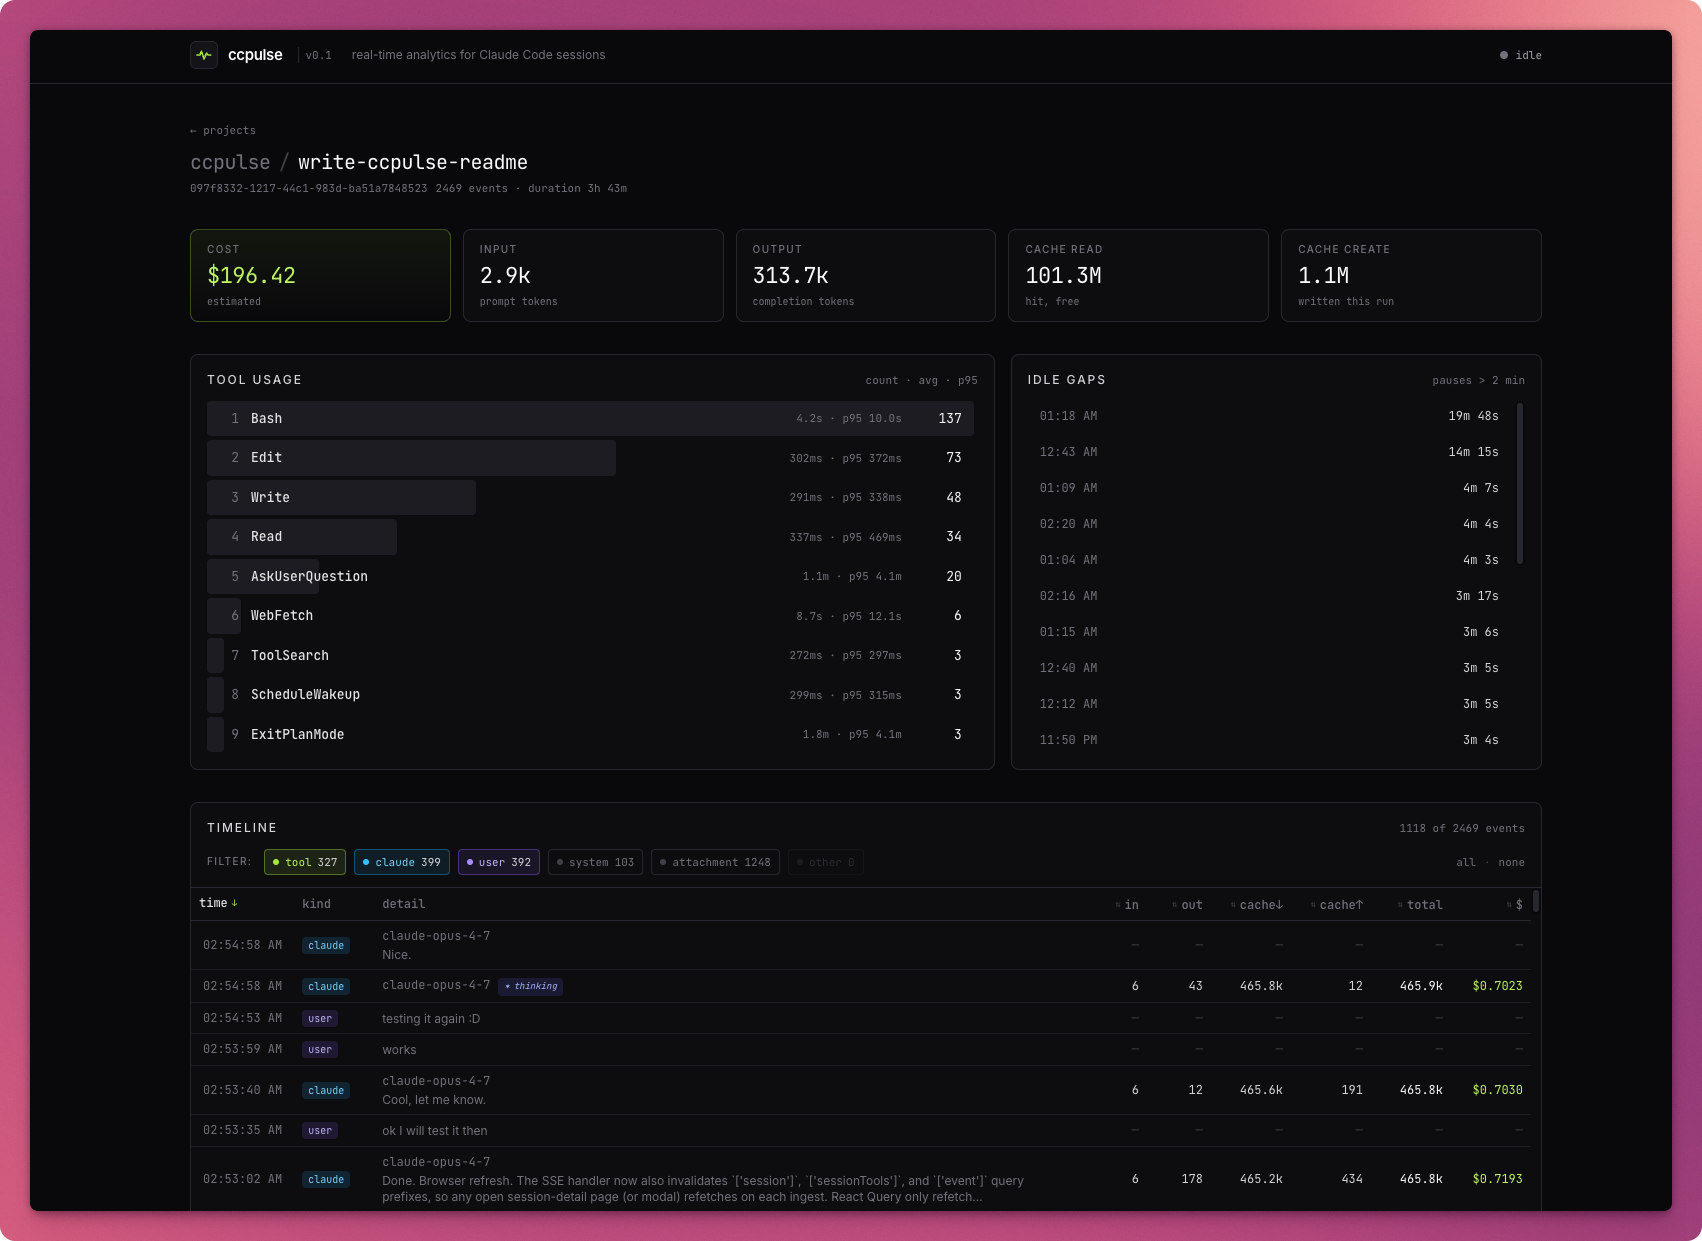
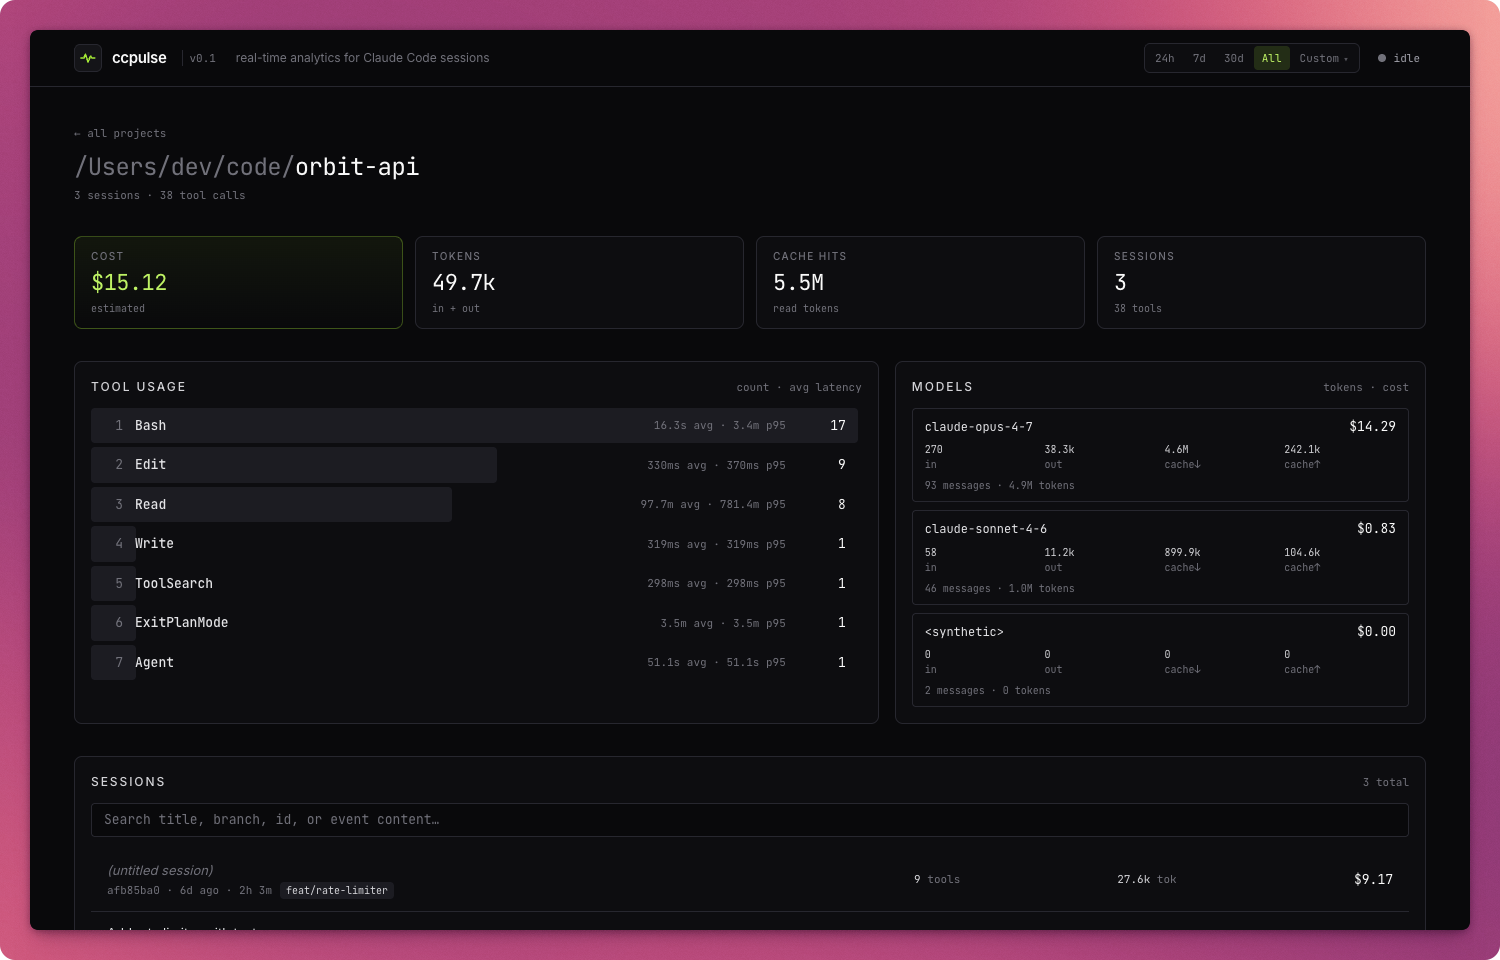
update readme and add support for demo data

diff --git a/packages/cli/src/bin.ts b/packages/cli/src/bin.ts
@@ -29,6 +29,8 @@ function readPackageVersion(): string {
 
 const DEFAULT_PORT = Number(process.env.CCPULSE_PORT) || 7878;
 const DB_PATH = process.env.CCPULSE_DB || join(homedir(), '.ccpulse', 'ccpulse.db');
+// Override the JSONL root (default ~/.claude/projects). Used for tests and demo data.
+const CLAUDE_DIR = process.env.CCPULSE_CLAUDE_DIR || undefined;
 
 const args = process.argv.slice(2);
 // Treat a leading flag (`--port`, `--no-open`, etc.) as "no subcommand" so that
@@ -46,7 +48,7 @@ function parseFlag(name: string): string | undefined {
 async function runDaemon() {
   const port = Number(parseFlag('port')) || DEFAULT_PORT;
   const noOpen = args.includes('--no-open');
-  const server = createServer({ port, dbPath: DB_PATH });
+  const server = createServer({ port, dbPath: DB_PATH, claudeDir: CLAUDE_DIR });
   const { port: actualPort } = await server.start();
   const baseUrl = `http://localhost:${actualPort}`;
   console.log(`ccpulse daemon listening on ${baseUrl}`);
@@ -164,8 +166,9 @@ usage:
   ccpulse --help                            this message
 
 env:
-  CCPULSE_PORT (default 7878)
-  CCPULSE_DB   (default ~/.ccpulse/ccpulse.db)
+  CCPULSE_PORT        (default 7878)
+  CCPULSE_DB          (default ~/.ccpulse/ccpulse.db)
+  CCPULSE_CLAUDE_DIR  (default ~/.claude/projects)
 `);
 }
 

diff --git a/packages/daemon/src/dev.ts b/packages/daemon/src/dev.ts
@@ -1,6 +1,10 @@
 import { createServer } from './server.js';
 
-const server = createServer({ port: Number(process.env.CCPULSE_PORT) || 7878 });
+const server = createServer({
+  port: Number(process.env.CCPULSE_PORT) || 7878,
+  dbPath: process.env.CCPULSE_DB,
+  claudeDir: process.env.CCPULSE_CLAUDE_DIR || undefined,
+});
 server.start().then(({ port }) => {
   // eslint-disable-next-line no-console
   console.log(`[ccpulse] daemon dev on http://localhost:${port}`);

diff --git a/README.md b/README.md
@@ -1,48 +1,81 @@
 # ccpulse
 
-> A small dashboard for a small problem. One hour. Some snacks. That's it.
+> See where your Claude Code tokens, time, and money actually go.
 
-![ccpulse](https://raw.githubusercontent.com/omar-toma/ccpulse/main/docs/screenshot.png)
+![ccpulse dashboard](https://raw.githubusercontent.com/omar-toma/ccpulse/main/docs/screenshot.png)
 
-Live, local-first analytics for [Claude Code](https://claude.com/claude-code) sessions — tokens, cost, tools, latency, timelines — sliced by project and session.
+<!-- After uploading the demo clip, drag ccpulse-demo.mp4 into the GitHub README
+     editor on this line so it renders as an inline player. -->
+
+Live, local-first analytics for [Claude Code](https://claude.com/claude-code) —
+tokens, cost, tool latency, and session timelines, sliced by project and session.
+A daemon watches your local session logs, indexes them into SQLite, and serves a
+dashboard. Nothing leaves your machine.
 
 ## Quickstart
 
 ```bash
-npx @omartoma/ccpulse@latest                    # starts daemon + opens dashboard
+npx @omartoma/ccpulse@latest          # starts the daemon and opens the dashboard
 ```
 
 Or install globally:
 
 ```bash
 npm i -g @omartoma/ccpulse
-ccpulse                                  # same thing
+ccpulse                               # same thing
 ```
 
-The daemon watches `~/.claude/projects/`, indexes events into SQLite, and serves a dashboard at `http://localhost:7878`. To scope the dashboard to a specific project's cwd, run `npx @omartoma/ccpulse@latest open` from that directory while the daemon is running.
-
-Other commands:
+The daemon watches `~/.claude/projects/`, indexes events into SQLite, and serves
+the dashboard at `http://localhost:7878`. To scope the dashboard to one project,
+run `npx @omartoma/ccpulse@latest open` from that project's directory while the
+daemon is running.
 
 ```bash
-npx @omartoma/ccpulse@latest daemon --no-open   # daemon without auto-opening browser
+npx @omartoma/ccpulse@latest daemon --no-open   # daemon without auto-opening the browser
 npx @omartoma/ccpulse@latest status             # check daemon health
-npx @omartoma/ccpulse@latest reindex            # drop SQLite index, rebuild on next start
+npx @omartoma/ccpulse@latest reindex            # drop the SQLite index, rebuild on next start
 ```
 
 ## What it shows
 
-- **Per-project rollups** — cost, tokens, sessions, tool calls, with a project list sorted by recency.
-- **Per-session timeline** — sortable by time, in / out / cache↓ / cache↑, total tokens, or cost. Filterable by kind (`tool` / `claude` / `user` / `system` / `attachment`). Click any row for a full event modal — message text, tool input JSON, hook payloads, raw JSONL line.
-- **Tool latency** — count, avg, p95, per project and per session.
-- **Global time range** — scope every view to the last 24h / 7d / 30d, a custom window, or all time; the range is kept in the URL so it survives reloads and shareable links.
+- **Per-project rollups** — cost, tokens, sessions, and tool calls, with projects
+  sorted by recency.
+- **Per-session timeline** — sortable by time, in / out / cache↓ / cache↑, total
+  tokens, or cost. Filter by kind (`tool` / `claude` / `user` / `system` /
+  `attachment`). Click any row for the full event — message text, tool input JSON,
+  hook payloads, the raw JSONL line.
+- **Tool latency** — count, average, and p95, per project and per session.
+- **Global time range** — scope every view to the last 24h / 7d / 30d, a custom
+  window, or all time. The range lives in the URL, so it survives reloads and
+  makes views shareable.
 
-Live updates stream over SSE — click the status pill in the header to pause or resume the subscription; resuming refreshes everything that changed while paused.
+Live updates stream over SSE — click the status pill in the header to pause or
+resume the subscription; resuming refreshes everything that changed while paused.
 
-## Caveats
+## Configuration
 
-Built in about an hour, between snack runs, to scratch a personal itch. Tests cover the parser and not much else. No roadmap. It reads `~/.claude/projects/*.jsonl` directly, so it breaks if Anthropic changes that format. Cost numbers use bundled rates that may go stale — drop overrides at `~/.ccpulse/models.json`. Requires Node ≥ 22 (uses the built-in `node:sqlite`).
+Environment variables:
 
-If it works for you, great. If not, the daemon is local and the data stays on your disk either way.
+| Variable             | Default                   | Purpose                          |
+| -------------------- | ------------------------- | -------------------------------- |
+| `CCPULSE_PORT`       | `7878`                    | Dashboard / API port             |
+| `CCPULSE_DB`         | `~/.ccpulse/ccpulse.db`   | SQLite index location            |
+| `CCPULSE_CLAUDE_DIR` | `~/.claude/projects`      | JSONL session-log root           |
+
+Cost is estimated from a bundled per-model rate table. Override or extend it by
+dropping a `~/.ccpulse/models.json` file.
+
+## Limitations
+
+- Reads `~/.claude/projects/*.jsonl` directly — if Anthropic changes that log
+  format, parsing may need an update.
+- Cost is an estimate from bundled rates; correct it via `~/.ccpulse/models.json`
+  if the published rates drift.
+- Built in an hour to scratch a personal itch. No roadmap — but issues and PRs
+  are welcome.
+
+Requires Node ≥ 22.5 (uses the built-in `node:sqlite`). The daemon is local and
+your data stays on your disk.
 
 ---
 